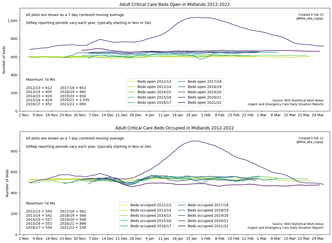
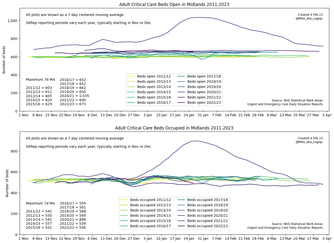
Re-run NHS sitreps reports

diff --git a/docs/uec-sitreps/gallery.html b/docs/uec-sitreps/gallery.html
@@ -27,13 +27,13 @@
 
 	<div class="gallery" itemscope itemtype="http://schema.org/ImageGallery">
 		<figure itemprop="associatedMedia" itemscope itemtype="http://schema.org/ImageObject">
-			<a href="./england.png" itemprop="contentUrl" data-size="1328x972">
+			<a href="./england.png" itemprop="contentUrl" data-size="1339x972">
 				<img src="./england_thumb.png" itemprop="thumbnail" alt="England">
 			</a>
 			<figcaption itemprop="caption description">England</figcaption>
 		</figure>
 		<figure itemprop="associatedMedia" itemscope itemtype="http://schema.org/ImageObject">
-			<a href="./london.png" itemprop="contentUrl" data-size="1328x972">
+			<a href="./london.png" itemprop="contentUrl" data-size="1339x972">
 				<img src="./london_thumb.png" itemprop="thumbnail" alt="London">
 			</a>
 			<figcaption itemprop="caption description">London</figcaption>
@@ -43,13 +43,13 @@
 
 	<div class="gallery" itemscope itemtype="http://schema.org/ImageGallery">
 		<figure itemprop="associatedMedia" itemscope itemtype="http://schema.org/ImageObject">
-			<a href="./south_east.png" itemprop="contentUrl" data-size="1315x972">
+			<a href="./south_east.png" itemprop="contentUrl" data-size="1326x972">
 				<img src="./south_east_thumb.png" itemprop="thumbnail" alt="South East">
 			</a>
 			<figcaption itemprop="caption description">South East</figcaption>
 		</figure>
 		<figure itemprop="associatedMedia" itemscope itemtype="http://schema.org/ImageObject">
-			<a href="./east_england.png" itemprop="contentUrl" data-size="1315x972">
+			<a href="./east_england.png" itemprop="contentUrl" data-size="1326x972">
 				<img src="./east_england_thumb.png" itemprop="thumbnail" alt="East of England">
 			</a>
 			<figcaption itemprop="caption description">East of England</figcaption>
@@ -59,13 +59,13 @@
 
 	<div class="gallery" itemscope itemtype="http://schema.org/ImageGallery">
 		<figure itemprop="associatedMedia" itemscope itemtype="http://schema.org/ImageObject">
-			<a href="./north_west.png" itemprop="contentUrl" data-size="1315x972">
+			<a href="./north_west.png" itemprop="contentUrl" data-size="1326x972">
 				<img src="./north_west_thumb.png" itemprop="thumbnail" alt="North West">
 			</a>
 			<figcaption itemprop="caption description">North West</figcaption>
 		</figure>
 		<figure itemprop="associatedMedia" itemscope itemtype="http://schema.org/ImageObject">
-			<a href="./north_east_yorkshire.png" itemprop="contentUrl" data-size="1315x972">
+			<a href="./north_east_yorkshire.png" itemprop="contentUrl" data-size="1326x972">
 				<img src="./north_east_yorkshire_thumb.png" itemprop="thumbnail" alt="North East and Yorkshire">
 			</a>
 			<figcaption itemprop="caption description">North East and Yorkshire</figcaption>
@@ -75,13 +75,13 @@
 
 	<div class="gallery" itemscope itemtype="http://schema.org/ImageGallery">
 		<figure itemprop="associatedMedia" itemscope itemtype="http://schema.org/ImageObject">
-			<a href="./midlands.png" itemprop="contentUrl" data-size="1328x972">
+			<a href="./midlands.png" itemprop="contentUrl" data-size="1339x972">
 				<img src="./midlands_thumb.png" itemprop="thumbnail" alt="Midlands">
 			</a>
 			<figcaption itemprop="caption description">Midlands</figcaption>
 		</figure>
 		<figure itemprop="associatedMedia" itemscope itemtype="http://schema.org/ImageObject">
-			<a href="./south_west.png" itemprop="contentUrl" data-size="1315x972">
+			<a href="./south_west.png" itemprop="contentUrl" data-size="1326x972">
 				<img src="./south_west_thumb.png" itemprop="thumbnail" alt="South West">
 			</a>
 			<figcaption itemprop="caption description">South West</figcaption>

diff --git a/docs/uec-sitreps/README.md b/docs/uec-sitreps/README.md
@@ -4,7 +4,7 @@ Author: Michael George
 
 Created: 21 January 2021
 
-Updated: 14 January 2022
+Updated: 4 February 2023
 
 
 
